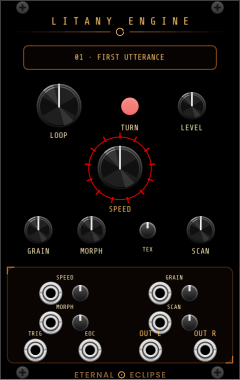
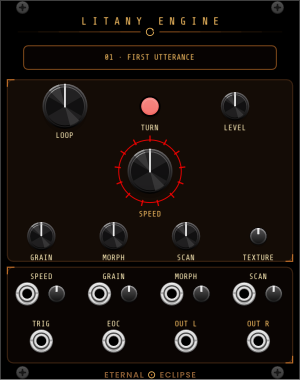
Litany Engine: panel pass — 20 HP, 9px labels, framed sections (OMN-90)
Widen from 16 to 20 HP so the CV bay fits one row of four jack +
attenuverter pairs at the standard 14 mm clearances instead of two
cramped rows. Every label is now LABEL_SIZE (the 7px FINE labels on
the bay and jack row violated the 2.7.1 legibility floor). Grain row,
bay and jack row share one column grid; controls area gets the
section frame + corner brackets used on Saros and Coronal
Annihilator. Fresh screenshot.

diff --git a/src/LitanyEngine/LitanyEngine.cpp b/src/LitanyEngine/LitanyEngine.cpp
@@ -225,9 +225,9 @@ struct LoopDisplay : TransparentWidget {
 };
 
 struct LitanyEngineWidget : ModuleWidget {
-	static constexpr float CX = 40.64f;
-	// Patch bay column centers and jack/attenuverter pair offsets
-	static constexpr float BAY_XL = 22.f, BAY_XR = 59.f;
+	// 20 HP. Column grid shared by the grain row, the CV bay and the jack row.
+	static constexpr float CX = 50.8f;
+	static constexpr float COL[4] = {14.f, 38.5f, 63.f, 87.5f};
 	static constexpr float JACK_DX = -4.8f, ATT_DX = 5.2f;
 
 	void addLabel(Vec mmPos, const std::string& text, float fontSize = eclipse::LABEL_SIZE,
@@ -255,51 +255,54 @@ struct LitanyEngineWidget : ModuleWidget {
 		LoopDisplay* display = new LoopDisplay;
 		display->module = module;
 		display->box.pos = mm2px(Vec(8.f, 15.5f));
-		display->box.size = mm2px(Vec(65.28f, 8.f));
+		display->box.size = mm2px(Vec(85.6f, 8.f));
 		addChild(display);
 
-		// Liturgy row: loop select / advance / level
-		addParam(createParamCentered<RoundBigBlackKnob>(mm2px(Vec(20.f, 36.f)), module, LitanyEngine::LOOP_PARAM));
-		addLabel(Vec(20.f, 46.f), "LOOP");
-		addParam(createLightParamCentered<VCVLightBezel<RedLight>>(mm2px(Vec(44.f, 36.f)), module,
+		// Liturgy row: loop select / advance / level (labels at knob radius + clearance)
+		addParam(createParamCentered<RoundBigBlackKnob>(mm2px(Vec(22.f, 36.f)), module, LitanyEngine::LOOP_PARAM));
+		addLabel(Vec(22.f, 46.f), "LOOP");
+		addParam(createLightParamCentered<VCVLightBezel<RedLight>>(mm2px(Vec(CX, 36.f)), module,
 			LitanyEngine::ADVANCE_PARAM, LitanyEngine::ADVANCE_LIGHT));
-		addLabel(Vec(44.f, 43.4f), "TURN");
-		addParam(createParamCentered<RoundBlackKnob>(mm2px(Vec(65.f, 36.f)), module, LitanyEngine::LEVEL_PARAM));
-		addLabel(Vec(65.f, 43.4f), "LEVEL");
+		addLabel(Vec(CX, 43.4f), "TURN");
+		addParam(createParamCentered<RoundBlackKnob>(mm2px(Vec(79.6f, 36.f)), module, LitanyEngine::LEVEL_PARAM));
+		addLabel(Vec(79.6f, 43.4f), "LEVEL");
 
 		// Centerpiece: through-zero varispeed inside the litany-wheel sigil
-		addParam(createParamCentered<RoundBigBlackKnob>(mm2px(Vec(CX, 57.f)), module, LitanyEngine::SPEED_PARAM));
-		addLabel(Vec(CX, 71.f), "SPEED", eclipse::LABEL_SIZE, eclipse::ACCENT_COLOR);
+		addParam(createParamCentered<RoundBigBlackKnob>(mm2px(Vec(CX, 58.f)), module, LitanyEngine::SPEED_PARAM));
+		addLabel(Vec(CX, 72.6f), "SPEED", eclipse::LABEL_SIZE, eclipse::ACCENT_COLOR);
 
-		// Grain row
-		addParam(createParamCentered<RoundBlackKnob>(mm2px(Vec(13.f, 78.f)), module, LitanyEngine::GRAIN_PARAM));
-		addLabel(Vec(13.f, 85.2f), "GRAIN");
-		addParam(createParamCentered<RoundBlackKnob>(mm2px(Vec(31.f, 78.f)), module, LitanyEngine::MORPH_PARAM));
-		addLabel(Vec(31.f, 85.2f), "MORPH");
-		addParam(createParamCentered<Trimpot>(mm2px(Vec(50.f, 78.f)), module, LitanyEngine::TEXTURE_PARAM));
-		addLabel(Vec(50.f, 84.6f), "TEX", eclipse::FINE_SIZE);
-		addParam(createParamCentered<RoundBlackKnob>(mm2px(Vec(68.f, 78.f)), module, LitanyEngine::SCAN_PARAM));
-		addLabel(Vec(68.f, 85.2f), "SCAN");
+		// Grain row on the column grid
+		addParam(createParamCentered<RoundBlackKnob>(mm2px(Vec(COL[0], 80.f)), module, LitanyEngine::GRAIN_PARAM));
+		addLabel(Vec(COL[0], 87.4f), "GRAIN");
+		addParam(createParamCentered<RoundBlackKnob>(mm2px(Vec(COL[1], 80.f)), module, LitanyEngine::MORPH_PARAM));
+		addLabel(Vec(COL[1], 87.4f), "MORPH");
+		addParam(createParamCentered<RoundBlackKnob>(mm2px(Vec(COL[2], 80.f)), module, LitanyEngine::SCAN_PARAM));
+		addLabel(Vec(COL[2], 87.4f), "SCAN");
+		addParam(createParamCentered<Trimpot>(mm2px(Vec(COL[3], 80.f)), module, LitanyEngine::TEXTURE_PARAM));
+		addLabel(Vec(COL[3], 87.4f), "TEXTURE");
 
-		// Patch bay
-		addLabel(Vec(BAY_XL, 99.3f - 5.2f), "SPEED", eclipse::FINE_SIZE);
-		addCvPair(BAY_XL, 99.3f, LitanyEngine::SPEED_INPUT, LitanyEngine::SPEED_ATT_PARAM, module);
-		addLabel(Vec(BAY_XR, 99.3f - 5.2f), "GRAIN", eclipse::FINE_SIZE);
-		addCvPair(BAY_XR, 99.3f, LitanyEngine::GRAIN_INPUT, LitanyEngine::GRAIN_ATT_PARAM, module);
-		addLabel(Vec(BAY_XL, 109.3f - 5.2f), "MORPH", eclipse::FINE_SIZE);
-		addCvPair(BAY_XL, 109.3f, LitanyEngine::MORPH_INPUT, LitanyEngine::MORPH_ATT_PARAM, module);
-		addLabel(Vec(BAY_XR, 109.3f - 5.2f), "SCAN", eclipse::FINE_SIZE);
-		addCvPair(BAY_XR, 109.3f, LitanyEngine::SCAN_INPUT, LitanyEngine::SCAN_ATT_PARAM, module);
+		// CV bay: one row of jack + attenuverter pairs, label above each pair
+		struct BayEntry { const char* label; int inputId; int attId; };
+		static const BayEntry BAY[4] = {
+			{"SPEED", LitanyEngine::SPEED_INPUT, LitanyEngine::SPEED_ATT_PARAM},
+			{"GRAIN", LitanyEngine::GRAIN_INPUT, LitanyEngine::GRAIN_ATT_PARAM},
+			{"MORPH", LitanyEngine::MORPH_INPUT, LitanyEngine::MORPH_ATT_PARAM},
+			{"SCAN", LitanyEngine::SCAN_INPUT, LitanyEngine::SCAN_ATT_PARAM},
+		};
+		for (int i = 0; i < 4; i++) {
+			addLabel(Vec(COL[i], 93.8f), BAY[i].label);
+			addCvPair(COL[i], 99.5f, BAY[i].inputId, BAY[i].attId, module);
+		}
 
-		// Bottom row: trig / eoc / stereo out
-		addLabel(Vec(12.f, 113.1f), "TRIG", eclipse::FINE_SIZE);
-		addInput(createInputCentered<PJ301MPort>(mm2px(Vec(12.f, 118.6f)), module, LitanyEngine::TRIG_INPUT));
-		addLabel(Vec(30.5f, 113.1f), "EOC", eclipse::FINE_SIZE);
-		addOutput(createOutputCentered<PJ301MPort>(mm2px(Vec(30.5f, 118.6f)), module, LitanyEngine::EOC_OUTPUT));
-		addLabel(Vec(51.f, 113.1f), "OUT L", eclipse::LABEL_SIZE, eclipse::ACCENT_COLOR);
-		addOutput(createOutputCentered<PJ301MPort>(mm2px(Vec(51.f, 118.6f)), module, LitanyEngine::OUTL_OUTPUT));
-		addLabel(Vec(69.5f, 113.1f), "OUT R", eclipse::LABEL_SIZE, eclipse::ACCENT_COLOR);
-		addOutput(createOutputCentered<PJ301MPort>(mm2px(Vec(69.5f, 118.6f)), module, LitanyEngine::OUTR_OUTPUT));
+		// Jack row: trig / eoc / stereo out
+		addLabel(Vec(COL[0], 109.8f), "TRIG");
+		addInput(createInputCentered<PJ301MPort>(mm2px(Vec(COL[0], 115.5f)), module, LitanyEngine::TRIG_INPUT));
+		addLabel(Vec(COL[1], 109.8f), "EOC");
+		addOutput(createOutputCentered<PJ301MPort>(mm2px(Vec(COL[1], 115.5f)), module, LitanyEngine::EOC_OUTPUT));
+		addLabel(Vec(COL[2], 109.8f), "OUT L", eclipse::LABEL_SIZE, eclipse::ACCENT_COLOR);
+		addOutput(createOutputCentered<PJ301MPort>(mm2px(Vec(COL[2], 115.5f)), module, LitanyEngine::OUTL_OUTPUT));
+		addLabel(Vec(COL[3], 109.8f), "OUT R", eclipse::LABEL_SIZE, eclipse::ACCENT_COLOR);
+		addOutput(createOutputCentered<PJ301MPort>(mm2px(Vec(COL[3], 115.5f)), module, LitanyEngine::OUTR_OUTPUT));
 	}
 };
 
